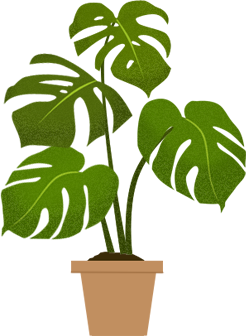
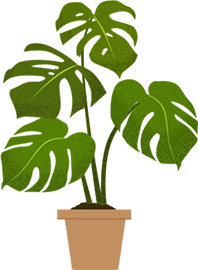
new assets

diff --git a/js/game/items.js b/js/game/items.js
@@ -390,20 +390,20 @@
 			'boombox': {
 				class: 'boombox',
 				x: 600,
-				y: 250,
+				y: 150,
 				message: 'booooombox'
 			},
 			'playButton': {
 				class: 'playButton',
 				x: 644,
-				y: 283,
+				y: 183,
 				// message: 'booooombox',
 				action: function() { $game.audio.play(); }
 			},
 			'stopButton': {
 				class: 'stopButton',
 				x: 675,
-				y: 283,
+				y: 183,
 				// message: 'booooombox',
 				action: function() { $game.audio.pause(); }
 			},
@@ -523,33 +523,42 @@
 				class: 'bookshelf',
 				x: 130,
 				y: 0,
-				invisible: true
+				action: function() {
+					var wiki = $game.wiki.getWiki();
+					$('#popupBox .wiki p').text(wiki);
+					$game.hidePopup();
+					$('#popupBox .wiki').show();
+					$('#popupBox').show();
+					setTimeout(function() {
+						items.showingBio = true;
+					}, 17);
+				}
 			},
 			'plant0': {
 				class: 'plant0',
 				x: -60,
-				y: 160,
+				y: 130,
 				invisible: true
 				
 			},
 			'plant1': {
 				class: 'plant1',
-				x: 600,
-				y: 600,
+				x: 1100,
+				y: 260,
 				invisible: true
 			},
 			'couch': {
 				class: 'couch',
 				x: 800,
-				y: 300,
+				y: 400,
 				invisible: true,
 				bind: 'christina',
 				bindName: 'couch'
 			},
 			'water': {
 				class: 'water',
-				x: 500,
-				y: 500,
+				x: 200,
+				y: 600,
 				// invisible: true,
 				frames: 7,
 				animation: [0,1,2,3,4,5,6],
@@ -564,27 +573,23 @@
 						self.paused = false;
 						self.playSound();
 					}, timeout, this);
-				},
-				action: function() {
-					var wiki = $game.wiki.getWiki();
-					$('#popupBox .wiki p').text(wiki);
-					$('#popupBox .bio').hide();
-					$('#popupBox .wiki').show();
-					$('#popupBox').show();
-					setTimeout(function() {
-						items.showingBio = true;
-					}, 17);
 				}
+			},
+			'coffeetable': {
+				class: 'coffeetable',
+				x: 1000,
+				y: 650,
+				invisible: true
 			}
 		};
 
 		items.peopleData = {
-			'steve': {
-				x: 1400,
+			'stephen': {
+				x: 300,
 				y: 500,
 				frames: 8,
 				animation: [4,5,6,7,0,1,2,3,6,7,5,6,5,0,1,4,5,6,7,6,5,4,0,1,2,1,0,6,5,7,4,6,5,4],
-				fullName: 'Steve Walter',
+				fullName: 'Stephen Walter',
 				jobTitle: 'Managing Director',
 				about: 'I love puppies, frogs, bananas, working at the EGL, brewing beer with friends, drinking that beer with friends, and gnomes.'
 			},
@@ -606,7 +611,7 @@
 				about: 'I love puppies, frogs, bananas, working at the EGL, brewing beer with friends, drinking that beer with friends, and gnomes.'
 			},
 			'jedd': {
-				x: 1730,
+				x: 2100,
 				y: 90,
 				frames: 4,
 				animation: [2,0,1,2,2,2,0,0,1,1,1,0,0,1,2,1,3,3,3,0,0,1,0,0,1,2,1,1,0,0,0,1,2],
@@ -623,8 +628,8 @@
 				about: 'I love puppies, frogs, bananas, working at the EGL, brewing beer with friends, drinking that beer with friends, and gnomes.'
 			},
 			'christina': {
-				x: 1050,
-				y: 200,
+				x: 950,
+				y: 300,
 				frames: 4,
 				animation: [0,1,2,3,1,1,2,3,1,2,3,1,2,3,1,2,2,3,2,1,2],
 				paused: false,
@@ -642,7 +647,7 @@
 				bind: 'couch'
 			},
 			'aidan': {
-				x: 1900,
+				x: 2500,
 				y: 400,
 				frames: 7,
 				animation: [0,1,2,3,4,5,6],
@@ -659,8 +664,8 @@
 				about: 'I love puppies, frogs, bananas, working at the EGL, brewing beer with friends, drinking that beer with friends, and gnomes.'
 			},
 			'sam': {
-				x: 2250,
-				y: 500,
+				x: 1300,
+				y: 550,
 				frames: 8,
 				animation: [0,1,2,3,4,5,6,7],
 				paused: false,
@@ -676,19 +681,28 @@
 				about: 'I love puppies, frogs, bananas, working at the EGL, brewing beer with friends, drinking that beer with friends, and gnomes.'
 			},
 			'russell': {
-				x: 300,
-				y: 500,
+				x: 1500,
+				y: 70,
 				frames: 3,
 				animation: [0,0,1,2,1,1,2,0,0,2,1,2,1,2],
-				// paused: false,
-				// sleep: function() {
-				// 	this.paused = true;
-				// 	var timeout = Math.floor(Math.random() * 500 + 500);
-				// 	setTimeout(function(self) {
-				// 		self.paused = false;
-				// 	}, timeout, this);
-				// },
 				fullName: 'Russell Goldenberg',
+				jobTitle: 'Hacker in Chief',
+				about: 'I love puppies, frogs, bananas, working at the EGL, brewing beer with friends, drinking that beer with friends, and gnomes.'
+			},
+			'jesse': {
+				x: 1800,
+				y: 550,
+				frames: 5,
+				animation: [0,1,2,1,2,0,4,0,2,0,1,2,4,3,4,2,2,1,0],
+				paused: false,
+				sleep: function() {
+					this.paused = true;
+					var timeout = Math.floor(Math.random() * 1000 + 1900);
+					setTimeout(function(self) {
+						self.paused = false;
+					}, timeout, this);
+				},
+				fullName: 'Jesse Baldwin-Philippi',
 				jobTitle: 'Hacker in Chief',
 				about: 'I love puppies, frogs, bananas, working at the EGL, brewing beer with friends, drinking that beer with friends, and gnomes.'
 			}

diff --git a/custom_less/custom-game.less b/custom_less/custom-game.less
@@ -125,20 +125,20 @@
 	.item {
 		cursor: pointer;
 		z-index: 1;
-		background: rgba(255,0,0,0.4); //DEV_MODE
+		// background: rgba(255,0,0,0.4); //DEV_MODE
 	}
 	.person {
 		cursor: pointer;
 		z-index: 2;
-		background: rgba(255,0,0,0.4); //DEV_MODE
+		// background: rgba(255,0,0,0.4); //DEV_MODE
 	}
 	.fgPerson {
 		z-index: 5;
-		background: rgba(0,255,0,0.4); //DEV_MODE
+		// background: rgba(0,255,0,0.4); //DEV_MODE
 	}
 	.fgItem {
 		z-index: 4;
-		background: rgba(0,255,0,0.4); //DEV_MODE
+		// background: rgba(0,255,0,0.4); //DEV_MODE
 	}
 	.hitItem {
 		cursor: pointer;
@@ -269,6 +269,7 @@
 	}
 }
 #nongameH {
+	display: none;
 }
 .devDirtyBound { //blue for area
 	background: rgba(0,0,255,0.3);

diff --git a/css/custom-game.css b/css/custom-game.css
@@ -114,20 +114,16 @@
 #game .item {
   cursor: pointer;
   z-index: 1;
-  background: rgba(255, 0, 0, 0.4);
 }
 #game .person {
   cursor: pointer;
   z-index: 2;
-  background: rgba(255, 0, 0, 0.4);
 }
 #game .fgPerson {
   z-index: 5;
-  background: rgba(0, 255, 0, 0.4);
 }
 #game .fgItem {
   z-index: 4;
-  background: rgba(0, 255, 0, 0.4);
 }
 #game .hitItem {
   cursor: pointer;
@@ -245,6 +241,9 @@
 }
 #nongame .row-fluid .blogLink {
   background: #7a43b6;
+}
+#nongameH {
+  display: none;
 }
 .devDirtyBound {
   background: rgba(0, 0, 255, 0.3);

diff --git a/js/game/input.js b/js/game/input.js
@@ -59,7 +59,7 @@
 				//hide message boxes
 				$game.hideMessage();
 				//constrain to bounds of the room
-				if(e.pageY < WALL_HEIGHT + NAVBAR_HEIGHT) { return false; }
+				if(e.pageY < WALL_HEIGHT + NAVBAR_HEIGHT + 5) { return false; }
 				// if(e.pageY > GAMEBOARD_HEIGHT + NAVBAR_HEIGHT - $game.player.offset.y) { return false; }
 				if(e.pageY > GAMEBOARD_HEIGHT + NAVBAR_HEIGHT) { return false; }
 				if(e.pageX <  $game.player.offset.x) { return false; }

diff --git a/css/custom-boostrap.css b/css/custom-boostrap.css
@@ -8781,7 +8781,6 @@ a.badge:focus {
   cursor: pointer;
 }
 #press h2 {
-  font-weight: 100;
   font-size: 3em;
   text-align: center;
 }
@@ -8809,7 +8808,8 @@ a.badge:focus {
   margin-top: 40px;
   margin-bottom: 40px;
 }
-#partners p {
+#partners p,
+#funders p {
   text-align: center;
 }
 h1,
@@ -8817,6 +8817,7 @@ h2,
 h3 {
   line-height: 1.4;
   color: #78cbd1;
+  font-weight: 100;
 }
 p {
   font-size: 1.4em;

diff --git a/custom_less/custom-other.less b/custom_less/custom-other.less
@@ -201,7 +201,6 @@
 }
 #press {
 	h2 {
-		font-weight: 100;
 		font-size: 3em;
 		text-align: center;
 	}
@@ -234,7 +233,7 @@
 		margin-bottom: 40px;
 	}
 }
-#partners {
+#partners, #funders {
 	p {
 		text-align: center;
 	}
@@ -244,6 +243,7 @@
 h1,h2,h3 {
 	line-height: @baseLineHeight;
 	color: @green;
+	font-weight: 100;
 }
 p {
 	font-size: 1.4em;

diff --git a/about/index.php b/about/index.php
@@ -36,7 +36,7 @@
 									Eric studies civic media, mediated cities and playful engagement. He is a fellow at the <a title="Berkman Center" target='_blank' href="http://cyber.law.harvard.edu/">Berkman Center for Internet and Society</a> at Harvard University and he is an associate professor in the department of Visual and Media Arts at Emerson College where he focuses on the design and research of digital games and social software that foster local civic engagement. He is the co-author of a new book about location-based media called <a title="Net Locality" href="http://www.amazon.com/Net-Locality-Location-Matters-Networked/dp/1405180609" target="_blank">Net Locality:</a> Why Location Matters in a Networked World (Blackwell Publishing, 2011) and the author of <a title="urban spectator" href="http://www.amazon.com/gp/product/1584658037/ref=pd_lpo_k2_dp_sr_1?pf_rd_p=486539851&amp;pf_rd_s=lpo-top-stripe-1&amp;pf_rd_t=201&amp;pf_rd_i=1405180609&amp;pf_rd_m=ATVPDKIKX0DER&amp;pf_rd_r=1YDTYQRRDDQW1CQKT8JR" target="_blank">The Urban Spectator</a>: American Concept Cities From Kodak to Google (Dartmouth, 2010).
 								</p>
 								<p>
-									<a target='_blank' href='http://twitter.com/ericbot' target='_blank'><i class='icon-twitter icon-large' rel='tooltip' data-title='twitter'></i></a>
+									<a href='http://twitter.com/ericbot' target='_blank'><i class='icon-twitter icon-large' rel='tooltip' data-title='twitter'></i></a>
 								</p>
 								</div>
 						</div>
@@ -46,9 +46,10 @@
 							<p class='trigger' data-toggle='collapse' data-target='#stephenBio'>Managing Director</p>
 							<div id='stephenBio' class='collapse out'>
 								<p>
-									Stephen studies and makes media for enhancing the understanding and use of complex systems, intersectionality, and playful experience for civic and community advocacy.  He has led the design and development of media for civic engagement nationally and abroad, including the games Community PlanIt, Civic Seed, and Nyami Nyami. He has worked with the International Red Cross, the U.S. State Department, the MAPC, the Cape Cod Commission, Tufts University, the cities of Boston, Philadelphia, and Detroit, and the Knight, Pearson, and MacArthur Foundations.
+									Stephen makes and studies media for civic engagement and social justice that aim to foster and amplify experiences of complexity, pluralism, and play. He's worked at Boston EMS, the Boston Public Health Commission, the Boston Center for the Arts, the Harvard Graduate School of Education, and the PBS television shows Frontline and Nova. At the EGL, he's helped lead the design and development of civic media projects in Detroit, Boston, Philadelphia, Los Angeles, South Africa, Sweden, and Zambia. He is a person.
 								</p>
 								<p>
+									<a href='http://www.chrono-synclastic-infundibulum.com/' target='_blank'><i class='icon-star icon-large' rel='tooltip' data-title='website'></i></a>
 								</p>
 							</div>
 						</div>
@@ -74,7 +75,7 @@
 					</div>
 					<div class='row'>
 						<div class='span4 person'>
-							<p><img data-toggle='collapse' data-target='#jesseBio' src='http://placehold.it/192x192.png' data-real='jesse' class='headshot'></p>
+							<p><img data-toggle='collapse' data-target='#jesseBio' src='../img/people/bio/jesse.jpg' data-real='jesse' class='headshot'></p>
 							<p class='trigger' data-toggle='collapse' data-target='#jesseBio'>Jesse Baldwin-Philippi, PhD</p>
 							<p class='trigger' data-toggle='collapse' data-target='#jesseBio'>Researcher &amp; Visiting Professor</p>
 							<div id='jesseBio' class='collapse out'>
@@ -82,7 +83,7 @@
 									Jesse is a visiting faculty member in Emerson's Department of Visual and Media Arts, and studies civic engagement, citizenship, and digital media. Her work is fundamentally concerned with how engagement with new technologies can restructure forms of political participation and ideas about citizenship, and has covered a variety of topics from political campaigns to games to government innovation. Visit <a href='http://jessebp.com' target='_blank'>her work</a> or contact her at Jessica_Philippi [at] emerson.edu. Download latest cv <a href='http://jessebp.com/cv' target='_blank'>here</a>.
 								</p>
 								<p>
-									<a target='_blank' href='http://twitter.com/jesse_b_p' target='_blank'><i class='icon-twitter icon-large'></i></a>
+									<a target='_blank' href='http://twitter.com/jesse_b_p' target='_blank'><i class='icon-twitter icon-large rel='tooltip' data-title='twitter''></i></a>
 								</p>
 							</div>
 						</div>

diff --git a/projects/index.php b/projects/index.php
@@ -16,23 +16,35 @@
 					<div class='row'>
 						<div class='span4'>
 							<h3> Community PlanIt </h3>
+							<p><img src='http://placehold.it/192x192.png'></p>
+							<p>This is some text that will describe the project.  The project is amazing and you can find out more at the project page.</p>
 						</div>
 						<div class='span4'>
 							<h3> Civic Seed </h3>
+							<p><img src='http://placehold.it/192x192.png'></p>
+							<p>This is some text that will describe the project.  The project is amazing and you can find out more at the project page.</p>
 						</div>
 						<div class='span4'>
 							<h3> Participatory Chinatown </h3>
+							<p><img src='http://placehold.it/192x192.png'></p>
+							<p>This is some text that will describe the project.  The project is amazing and you can find out more at the project page.</p>
 						</div>
 					</div>
 					<div class='row'>
 						<div class='span4'>
 							<h3> Hub2 </h3>
+							<p><img src='http://placehold.it/192x192.png'></p>
+							<p>This is some text that will describe the project.  The project is amazing and you can find out more at the project page.</p>
 						</div>
 						<div class='span4'>
 							<h3> Nyami Nyami </h3>
+							<p><img src='http://placehold.it/192x192.png'></p>
+							<p>This is some text that will describe the project.  The project is amazing and you can find out more at the project page.</p>
 						</div>
 						<div class='span4'>
 							<h3> Student Projects </h3>
+							<p><img src='http://placehold.it/192x192.png'></p>
+							<p>This is some text that will describe the project.  The project is amazing and you can find out more at the project page.</p>
 						</div>
 					</div>
 				</div>
